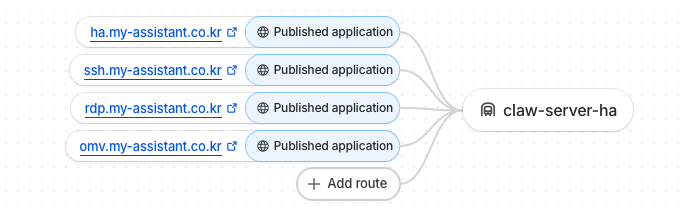
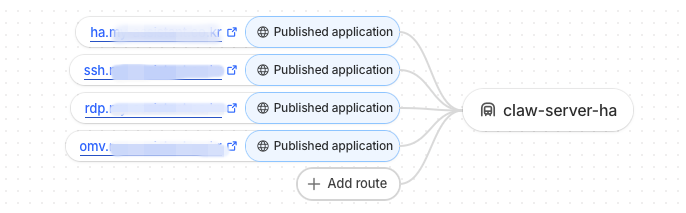
Update OMV blog content and author

diff --git a/blog/2026/07/2026-07-28-omv-home-assistant-1.md b/blog/2026/07/2026-07-28-omv-home-assistant-1.md
@@ -4,7 +4,7 @@ title: OMV에 Home Assistant 결합하기 1
 description: 제한된 홈서버에 OMV와 Home Assistant를 함께 구성한 과정
 date: 2026-07-28
 authors:
-  - portfolio
+  - Assist@IS
 tags:
   - Home Assistant
   - OpenMediaVault
